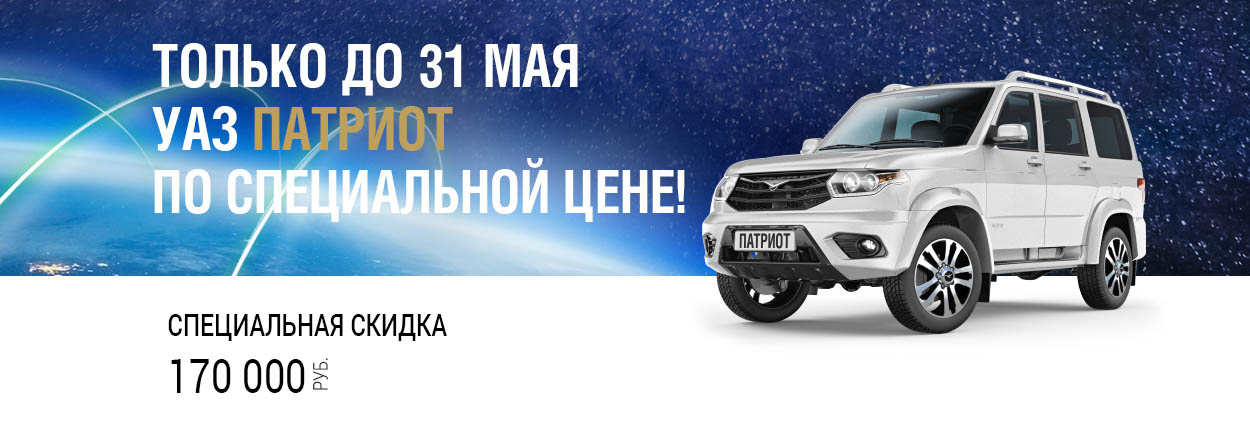
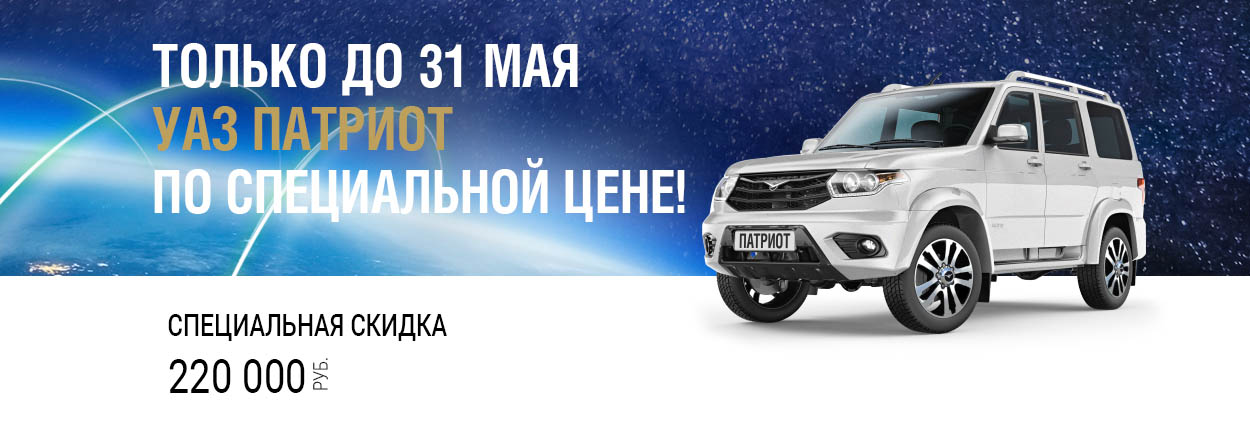
change sale

Changed region(s): [[0.1248, 0.2436, 0.1872, 0.3653], [0.1248, 0.822, 0.1872, 0.9438]]

diff --git a/patriot.html b/patriot.html
@@ -68,12 +68,13 @@
 
 
       </div>
-      <h1>Скидка 170 000 рублей!</h1>
+      <h1>Скидка 220 000 рублей!</h1>
 
-      <p>Только до <strong>31 мая 2016 года.</strong> при покупке УАЗ ПАТРИОТ в автосалонах Торгмаш вы можете получить скидку <strong>170 000 рублей!</strong>
+      <p>Только до <strong>31 мая 2016 года.</strong> при покупке УАЗ ПАТРИОТ в автосалонах Торгмаш вы можете получить скидку <strong>220 000 рублей!</strong>
       </p>
-      <p>Скидка <strong>50 000 рублей</strong> по программе "УАЗ-кредит"</p>
-      <p>Скидка <strong>120 000 рублей</strong> по спецпрограмме утилизация/трейд-ин.</p>
+      <p>Скидка <strong>80 000 рублей</strong> за год выпуска.</p>
+      <p>Скидка <strong>50 000 рублей</strong> по программе "УАЗ-кредит".</p>
+      <p>Скидка <strong>90 000 рублей</strong> по спецпрограмме утилизация/трейд-ин.</p>
       <p><i>*Срок действия программы — с 23 ноября до 31 мая 2016 года.</i>
       </p>
       <hr>

diff --git a/pickup.html b/pickup.html
@@ -68,12 +68,13 @@
 
 
             </div>
-            <h1>Скидка 185 000 рублей!</h1>
+            <h1>Скидка 270 000 рублей!</h1>
 
-            <p>Только до <strong>31 мая 2016 года.</strong> при покупке УАЗ ПИКАП в автосалонах Торгмаш вы можете получить скидку <strong>185 000 рублей!</strong>
+            <p>Только до <strong>31 мая 2016 года.</strong> при покупке УАЗ ПИКАП в автосалонах Торгмаш вы можете получить скидку <strong>270 000 рублей!</strong>
             </p>
+            <p>Скидка <strong>100 000 рублей</strong> за год выпуска.</p>
             <p>Скидка <strong>50 000 рублей</strong> по программе "УАЗ-кредит"</p>
-            <p>Скидка <strong>135 000 рублей</strong> по спецпрограмме утилизация/трейд-ин.</p>
+            <p>Скидка <strong>120 000 рублей</strong> по спецпрограмме утилизация/трейд-ин.</p>
             <p><i>*Срок действия программы — с 23 ноября до 31 мая 2016 года.</i>
             </p>
             <hr>
